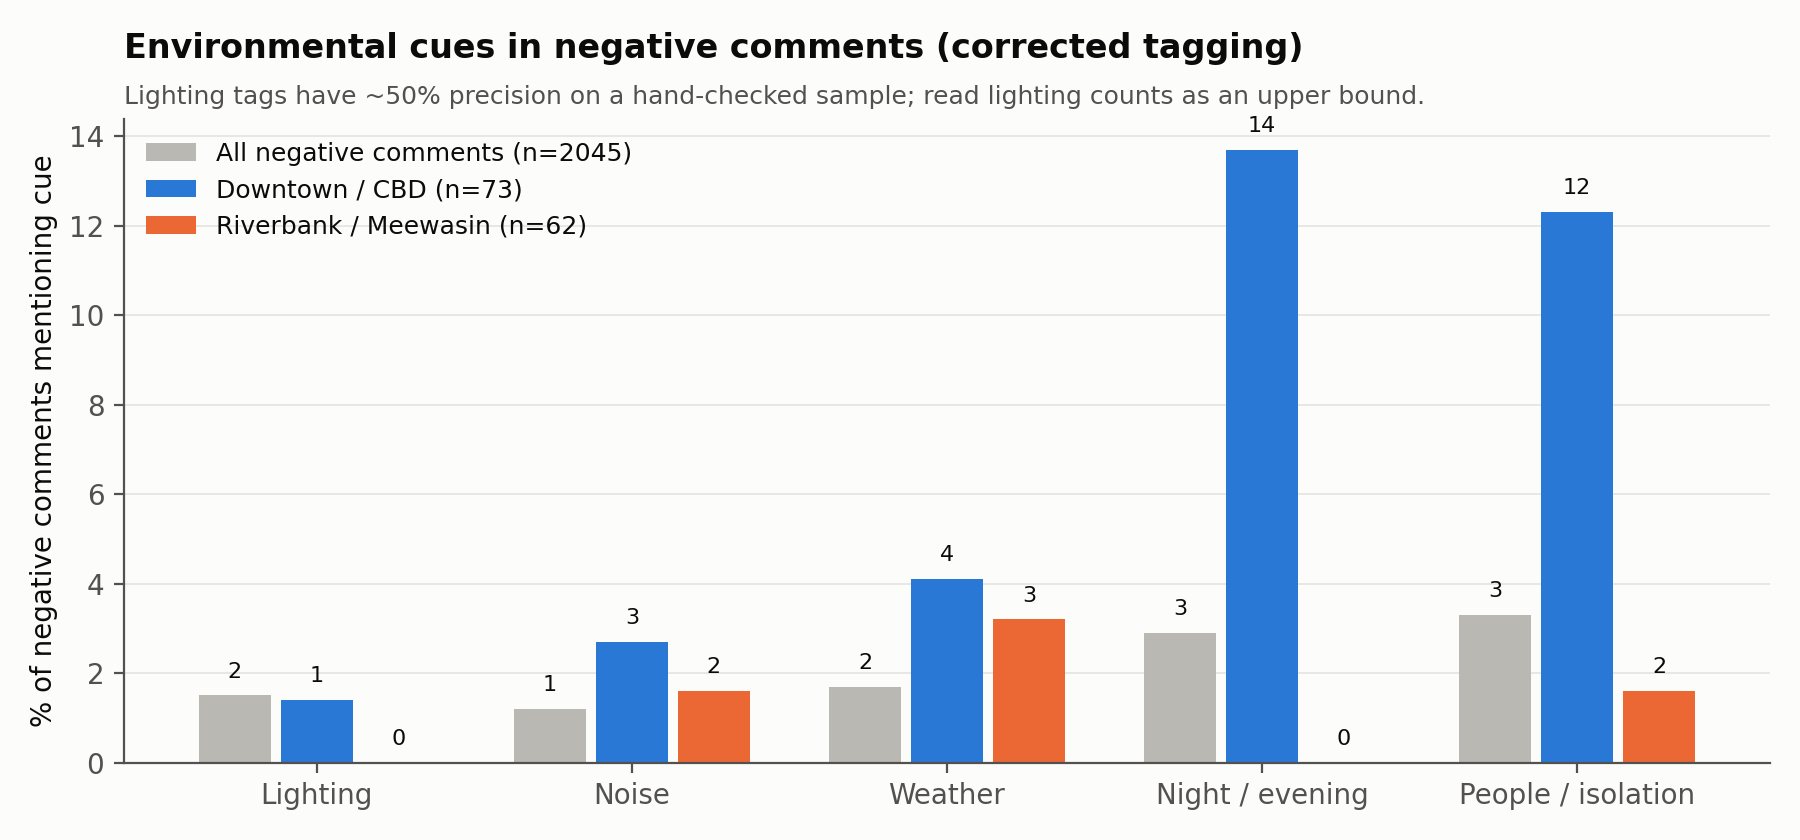
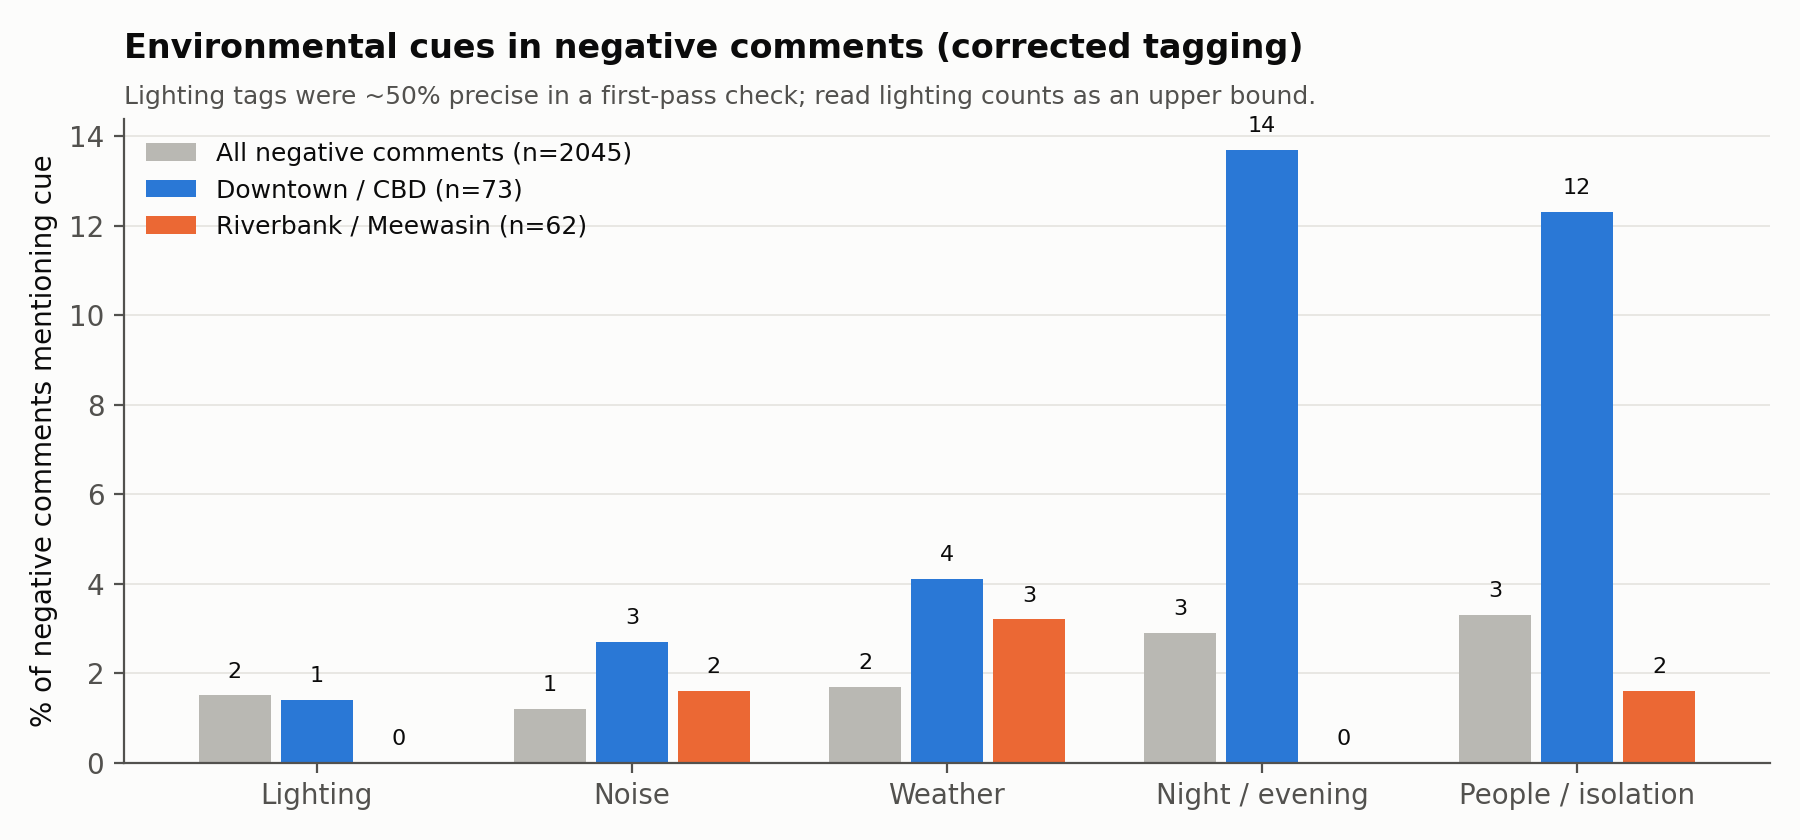
Say what the review files are: an automated first pass, still to be checked by hand
The cue-precision sample and the other-city review were described as checked or reviewed by hand;
both are a first pass that no one has checked by hand yet.

- Figure 1 (fig01_workflow_status.png): the Reddit tag check is "started", not "done".
- chart4_env_cues.png and the DataTables workbook (both collections), the verification check label,
  build_october_report.js, the docs (reddit_pipeline, validation_plan, Scripts/reddit_analysis/README,
  the June dataset README) and code docstrings now say first pass / to be confirmed by hand.
- Deliverables/2026-10_october_update/README.md records the correction; the report as sent is unchanged.
- Republished both Reddit collections: only the workbook and chart4 changed; every CSV is identical.
- Lint: two whitespace fixes (verify_october_2026.py, reddit_scraper.py); flake8 is clean on Scripts/.

Changed region(s): [[0.28, 0.0929, 0.7778, 0.1238], [0.1556, 0.0929, 0.1867, 0.1238]]

diff --git a/Scripts/reporting/build_october_report.js b/Scripts/reporting/build_october_report.js
@@ -222,7 +222,7 @@ add(
   para(`**What was adjusted.** The collector now takes the study window in Saskatoon time (1 June to 31 August 2026). It searches ` +
     `the ${R.seeds_safety} original safety terms plus ${R.seeds_crime} crime terms aligned with the categories above ` +
     `(e.g. "broken into", "catalytic converter", "robbed"), under ${R.sorts} search orders each. Locations and environmental ` +
-    `cues are tagged on whole words, with references to other cities' downtowns removed by hand review. Sentiment uses ` +
+    `cues are tagged on whole words, with references to other cities' downtowns removed after a first-pass review (to be confirmed by hand). Sentiment uses ` +
     `VADER adjusted so the search words themselves ("safe", "safety") do not bias it. Comments written after 31 August are ` +
     `flagged and left out of the analysis (${R.comments_late} of ${fmt(R.comments)}).`),
   para(`**What was collected.** ${R.posts} posts (June ${R.posts_by_month.Jun}, July ${R.posts_by_month.Jul}, August ` +

diff --git a/Scripts/reddit_analysis/scripts/common.py b/Scripts/reddit_analysis/scripts/common.py
@@ -43,7 +43,7 @@ Each Reddit dataset is a folder Data/<dataset>/ whose 01_raw_collection/ holds
 one saskatoon_safety_posts_<stamp>.csv and one ..._comments_<stamp>.csv.
 Raw data: $COMPUTERVISION_SENTINEL_RAW_DIR, else Data/reddit_2025-06-11_2026-06-11/01_raw_collection.
 Outputs: $COMPUTERVISION_SENTINEL_OUT_DIR, else ../output. run_all.sh sets both.
-Hand review: $COMPUTERVISION_SENTINEL_REVIEW_DIR, else ../manual_review (01b updates it in
+Review files: $COMPUTERVISION_SENTINEL_REVIEW_DIR, else ../manual_review (01b updates it in
 place, so ./flight points this at a copy when it analyses a fresh collection).
 
 TWO COLLECTION VERSIONS
@@ -212,7 +212,7 @@ NEIGHBOURHOODS_ORIGINAL: dict[str, list[str]] = {
 
 # Added October 2026: the safety-perception survey draft names Sutherland as a
 # site the Reddit data pointed to, but it was never a tracked category. Every
-# one of its 53 word-boundary matches was checked by hand and refers to the
+# one of its 53 word-boundary matches was checked and refers to the
 # Saskatoon neighbourhood (or businesses / Sutherland Beach within it).
 NEIGHBOURHOODS_ADDED: dict[str, list[str]] = {
     "Sutherland": ["sutherland"],
@@ -297,7 +297,7 @@ def neighbourhood_tags(df: pd.DataFrame, text_col: str, id_col: str, record_type
                        vocab: dict[str, list[str]] | None = None,
                        prefix: str = "vloc_") -> pd.DataFrame:
     """Adds one boolean column per neighbourhood: word-boundary match, minus
-    hand-reviewed other-city references. Returns df (modified in place)."""
+    reviewed other-city references. Returns df (modified in place)."""
     vocab = NEIGHBOURHOODS if vocab is None else vocab
     excl = other_city_exclusions()
     for name, patterns in vocab.items():

diff --git a/Scripts/reddit_analysis/scripts/04_build_excel_workbook.py b/Scripts/reddit_analysis/scripts/04_build_excel_workbook.py
@@ -57,7 +57,8 @@ README_LINES = [
     ("ComputerVision_Sentinel - Corrected Reddit Analysis (October 2026)", 14, True),
     ("", 10, False),
     ("Supersedes the August 2026 data tables. Method (October 2026 corrections, same for every collection):", 10, False),
-    ("  1. Location tags: whole-word matching plus hand-reviewed references to other cities removed (Location Tag Audit).", 10, False),
+    ("  1. Location tags: whole-word matching plus reviewed references to other cities removed (Location Tag Audit;", 10, False),
+    ("     the review is an automated first pass, to be confirmed by hand).", 10, False),
     ("  2. Sutherland tracked as a 22nd area.", 10, False),
     ("  3. Environmental cues: whole-word matching minus non-environmental senses; substring tags matched inside", 10, False),
     ("     words ('ice' in 'police', 'lit' in 'little'). See Env Cue Audit and Env Cue Precision.", 10, False),
@@ -68,7 +69,8 @@ README_LINES = [
     ("", 10, False),
     ("Reading notes:", 11, True),
     ("  - time_of_day is when a comment was POSTED, not when the experience happened.", 10, False),
-    ("  - Lighting cue precision on a hand-checked sample is ~50%; treat lighting counts as an upper bound.", 10, False),
+    ("  - Lighting cue precision in a first-pass check (not yet checked by hand) is ~50%; treat lighting counts as an", 10, False),
+    ("    upper bound.", 10, False),
     ("  - small_sample = fewer than 30 mentions. Overlapping CIs mean no clear difference.", 10, False),
     ("", 10, False),
     ("Produced by Scripts/reddit_analysis (run_all.sh). Prepared by: Ryan Ocampo, ComputerVision_Sentinel", 10, False),

diff --git a/Scripts/verification/verify_october_2026.py b/Scripts/verification/verify_october_2026.py
@@ -173,7 +173,7 @@ def reddit_checks(rerun: bool) -> None:
         "WARN", "mixes presence of people with mentions of a social group; split it before H4")
 
     prec = pd.read_csv(REDDIT / "05_audits" / "env_cue_precision_heldout.csv").set_index("cue")
-    add(A, "Environmental-cue precision (hand-checked held-out sample, June records)",
+    add(A, "Environmental-cue precision (held-out sample, June records; automated first pass, not yet checked by hand)",
         "; ".join(f"{k} {v.precision:.0%}" for k, v in prec.iterrows())
         + ". Lighting fires on traffic/car lights", "WARN", rel(REDDIT / "05_audits" / "env_cue_precision_heldout.csv"))
 
@@ -186,7 +186,7 @@ def reddit_checks(rerun: bool) -> None:
         for ds in (REDDIT, REDDIT_JUNE):
             with tempfile.TemporaryDirectory() as tmp:
                 env = {**os.environ, "COMPUTERVISION_SENTINEL_OUT_DIR": tmp}
-                r = subprocess.run(["bash", str(REPO / "Scripts/reddit_analysis/run_all.sh"), ds.name],env=env, capture_output=True, text=True, check=False)
+                r = subprocess.run(["bash", str(REPO / "Scripts/reddit_analysis/run_all.sh"), ds.name], env=env, capture_output=True, text=True, check=False)
                 files = [p.relative_to(tmp) for p in Path(tmp).rglob("*.csv")]
                 same = [f for f in files if filecmp.cmp(Path(tmp) / f, ds / f, shallow=False)]
                 add(A if ds == REDDIT else "Reddit Jun 2025-Jun 2026",

diff --git a/Scripts/flight/execute_flight.py b/Scripts/flight/execute_flight.py
@@ -650,7 +650,7 @@ def stage_models(F: Flight) -> None:
 
 
 def reddit_analysis(F: Flight, sid: str, title: str, raw: Path, out: Path, review: Path) -> None:
-    """The run_all.sh steps on one collection, writing to out/ and using a copy of the hand-review files."""
+    """The run_all.sh steps on one collection, writing to out/ and using a copy of the review files."""
     shutil.copytree(REVIEW, review, dirs_exist_ok=True)
     env = dict(F.env, COMPUTERVISION_SENTINEL_RAW_DIR=str(raw), COMPUTERVISION_SENTINEL_OUT_DIR=str(out),
                COMPUTERVISION_SENTINEL_REVIEW_DIR=str(review))
@@ -792,7 +792,7 @@ def stage_checks(F: Flight, snapshot: dict) -> None:
         rows += compare_tree("CV pilot (10 images)", rep / "cv_pilot_cbd_latest_imagery", PILOT,
                              exclude=("sample_points.csv", "sample_points.geojson", "image_manifest.csv",
                                       "pilot_attempts.csv", "images"))
-    for name, new, pub in (("Hand review", rep / "manual_review" / REDDIT_DS / "location_other_city_review.csv",
+    for name, new, pub in (("Review files", rep / "manual_review" / REDDIT_DS / "location_other_city_review.csv",
                             REVIEW / "location_other_city_review.csv"),):
         if new.exists():
             st, note = compare_file(new, pub)

diff --git a/Scripts/reddit_collection/reddit_scraper.py b/Scripts/reddit_collection/reddit_scraper.py
@@ -445,7 +445,7 @@ class SaskatoonSafetyCollector:
     def _tag_neighbourhoods(df: pd.DataFrame, text_col: str) -> pd.DataFrame:
         """loc_* flags and a neighbourhoods_mentioned list per record."""
         # Whole-word matching; other-city references ("downtown Regina") are
-        # removed at analysis time from the hand-review file.
+        # removed at analysis time from the review file.
         df["neighbourhoods_mentioned"] = df[text_col].apply(
             lambda t: [n for n, p in SASKATOON_NEIGHBOURHOODS.items() if common.bounded_match(t, p)])
         df["n_neighbourhoods"] = df["neighbourhoods_mentioned"].apply(len)
@@ -682,6 +682,7 @@ def main(argv=None) -> None:
     posts_df, comments_df = collector.build_dataframes()
     stamp = collector.export(posts_df, comments_df)
     logger.info("Collection complete (%s): %d posts, %d comments -> %s", stamp, len(posts_df), len(comments_df), out)
+
 
 if __name__ == "__main__":
     try:

diff --git a/Scripts/reporting/make_figures.py b/Scripts/reporting/make_figures.py
@@ -93,7 +93,7 @@ COLS = ["1. Collect  (Oct)", "2. Analyse  (Nov \u2013 Jan)", "3. Check accuracy 
 WORKFLOW = [
     [("done", "195 posts, 6,452 comments\nJune\u2013August 2026"),
      ("done", "Places and tone tagged;\nresults reproduce exactly"),
-     ("done", "Tags checked by hand\n(30 examples per topic)")],
+     ("partial", "Tags checked: first pass\n(30 examples per topic);\nby hand next")],
     [("done", "Collection method validated:\n10 Mapillary images sourced"),
      ("done", "CLIP ViT-B/32 model\nvalidated to analyse in the\npipeline on a small sample"),
      ("done", "Scoring validated on a\nsmall sample (10 images);\n~150-image check next")],

diff --git a/Scripts/reddit_analysis/scripts/08_verify_outputs.py b/Scripts/reddit_analysis/scripts/08_verify_outputs.py
@@ -25,7 +25,7 @@ Re-derives key numbers by separate code paths and fails loudly on any mismatch.
      comment_in_window flag agrees with each comment's timestamp.
   Every collection:
   4. The cleaned v2 rows reconcile with neighbourhood_summary.csv.
-  5. Every hand-review "exclude" decision is reflected in the cleaned data, and
+  5. Every review "exclude" decision is reflected in the cleaned data, and
      no quote sample row comes from an excluded record.
   6. June collection only: numbers quoted in the July/August documents,
      re-checked against the data (05_audits/august_document_claims_check.csv).

diff --git a/Scripts/reddit_analysis/scripts/01_audit_location_tagging.py b/Scripts/reddit_analysis/scripts/01_audit_location_tagging.py
@@ -9,7 +9,7 @@ Compares three versions of every neighbourhood tag, for posts and comments:
 
   raw            the scraper's original substring match ("river" in "driver")
   word_boundary  the same patterns matched as whole words (August 2026 fix)
-  final          word boundary, minus hand-reviewed references to other
+  final          word boundary, minus reviewed references to other
                  cities' downtowns/rivers (October 2026, see
                  manual_review/location_other_city_review.csv)
 

diff --git a/Scripts/reddit_analysis/scripts/03_generate_charts.py b/Scripts/reddit_analysis/scripts/03_generate_charts.py
@@ -157,7 +157,7 @@ def chart4_env_cues():
     ax.grid(axis="x", visible=False)
     ax.legend(frameon=False, fontsize=9, loc="upper left")
     finish(fig, ax, "chart4_env_cues.png", "Environmental cues in negative comments (corrected tagging)",
-           "Lighting tags have ~50% precision on a hand-checked sample; read lighting counts as an upper bound.")
+           "Lighting tags were ~50% precise in a first-pass check; read lighting counts as an upper bound.")
 
 
 def chart5_time_of_day():

diff --git a/Scripts/reddit_analysis/scripts/01c_audit_env_cues.py b/Scripts/reddit_analysis/scripts/01c_audit_env_cues.py
@@ -15,7 +15,7 @@ This script measures the damage and documents the corrected tags:
                   environmental senses (the definition used from October 2026)
 
 It also lists the words that triggered the original substring match without
-being a cue word ("police" -> "ice"), and summarises the hand-judged precision
+being a cue word ("police" -> "ice"), and summarises the judged precision
 of the corrected tags from manual_review/env_cue_validation_heldout.csv.
 
 OUTPUT

diff --git a/Scripts/reddit_analysis/scripts/01b_other_city_review.py b/Scripts/reddit_analysis/scripts/01b_other_city_review.py
@@ -10,7 +10,7 @@ Saskatoon's downtown from Regina's. The August report quoted a comment that
 begins "I operate buildings in downtown Regina" as evidence about Downtown/CBD.
 
 This script lists every post/comment whose location match co-occurs with the
-name of another city, and merges that list with the hand-made decisions in
+name of another city, and merges that list with the review decisions in
 
     manual_review/location_other_city_review.csv
 
